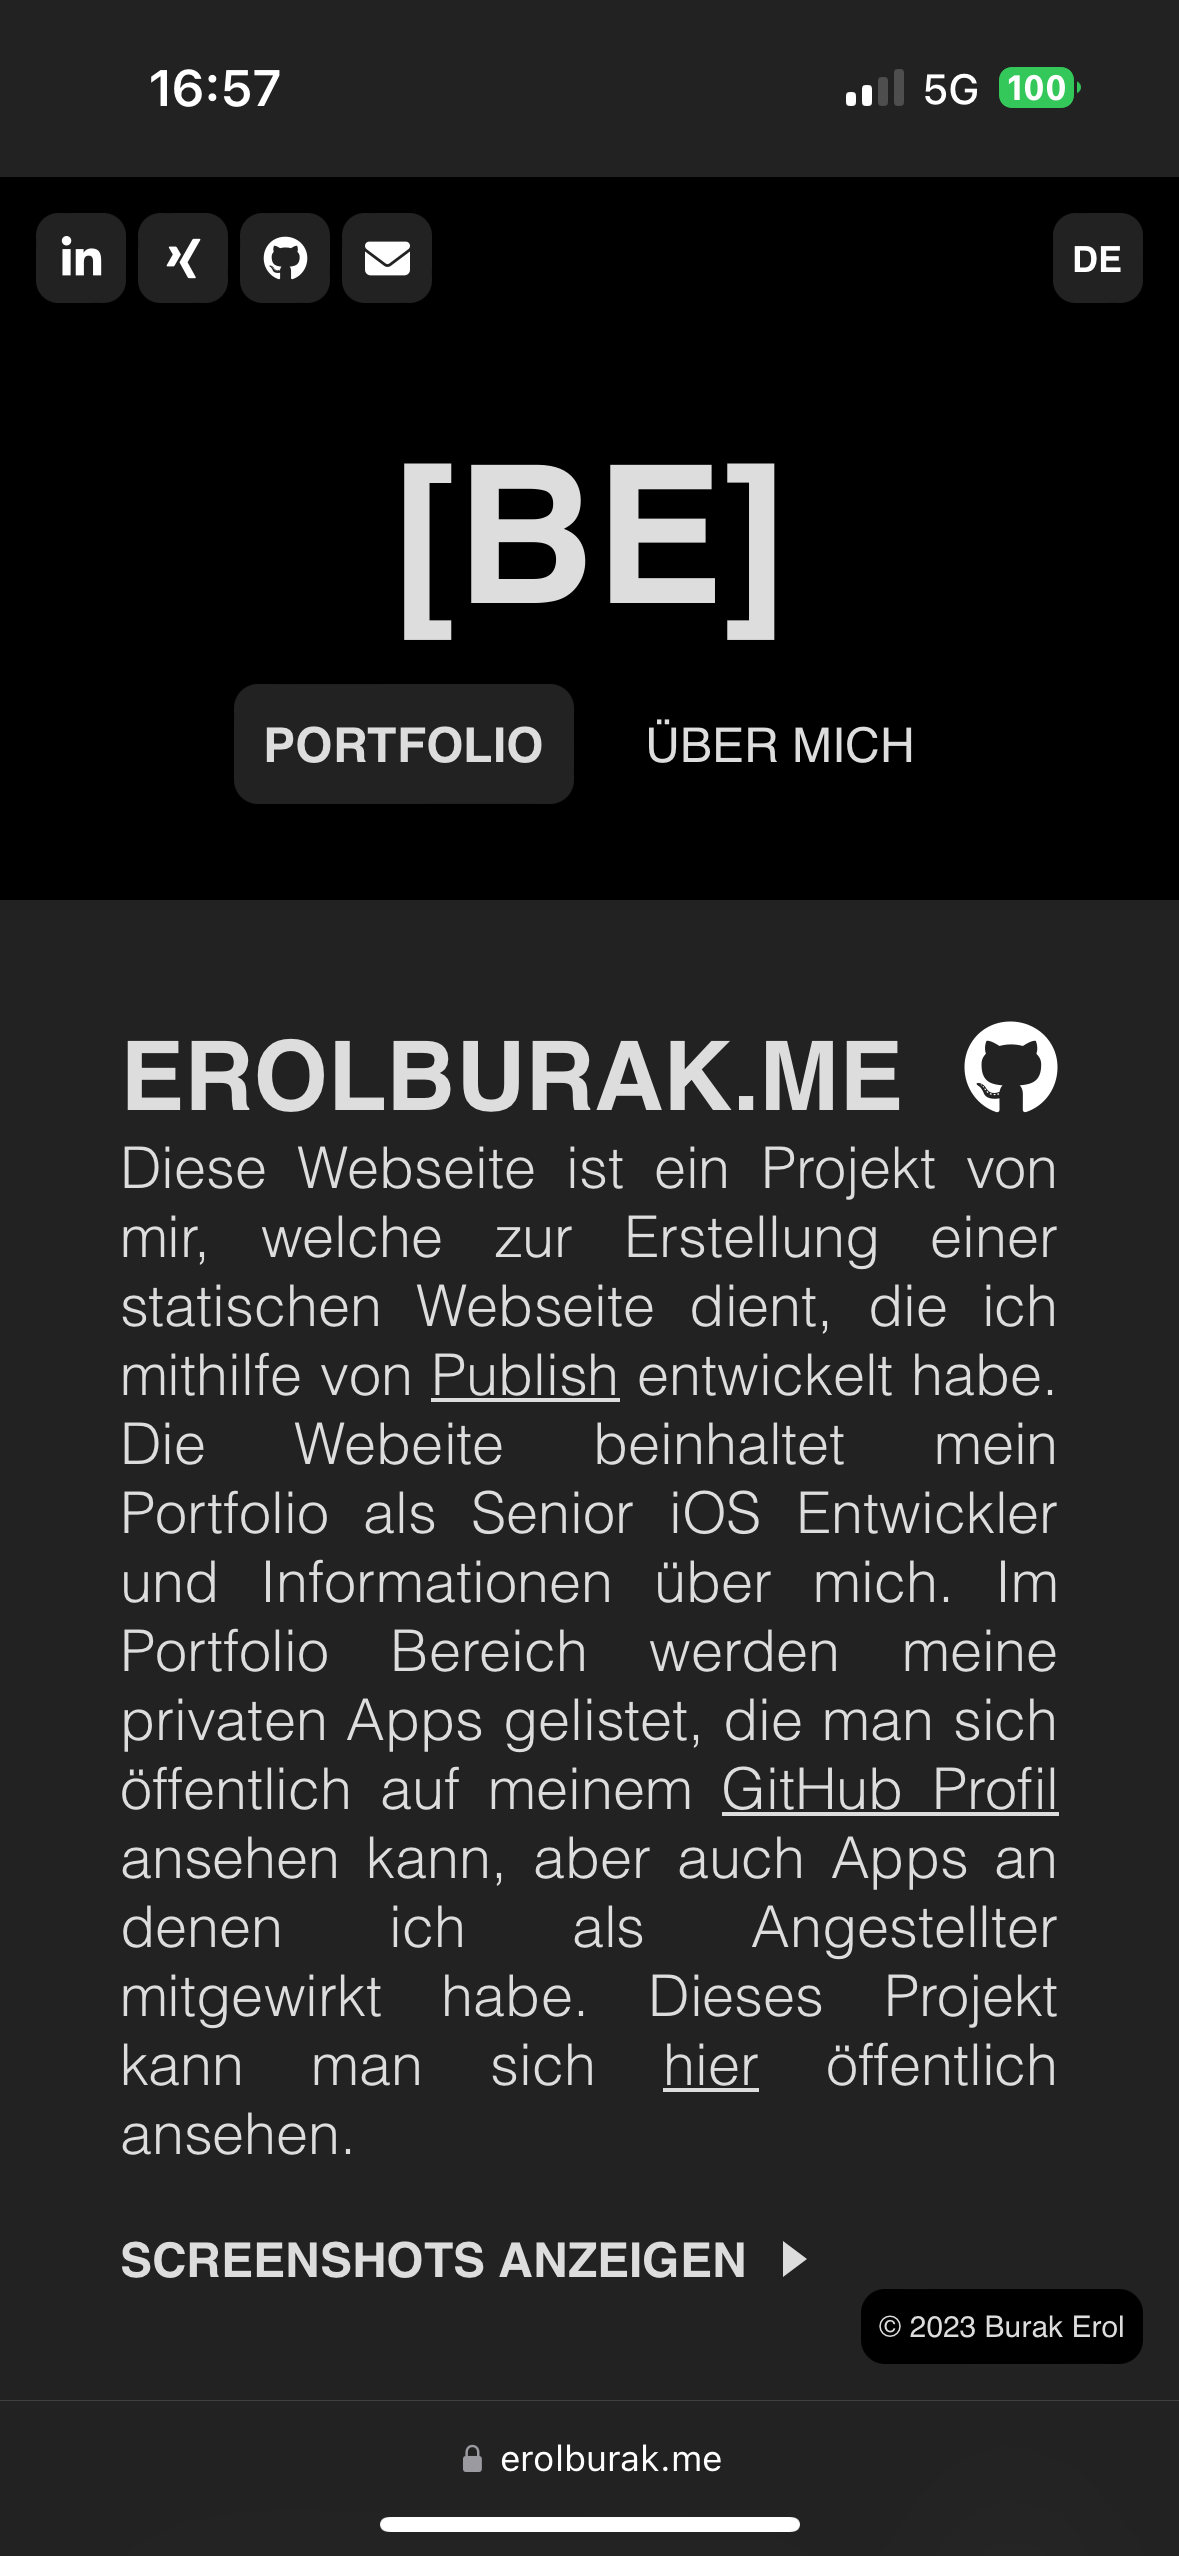
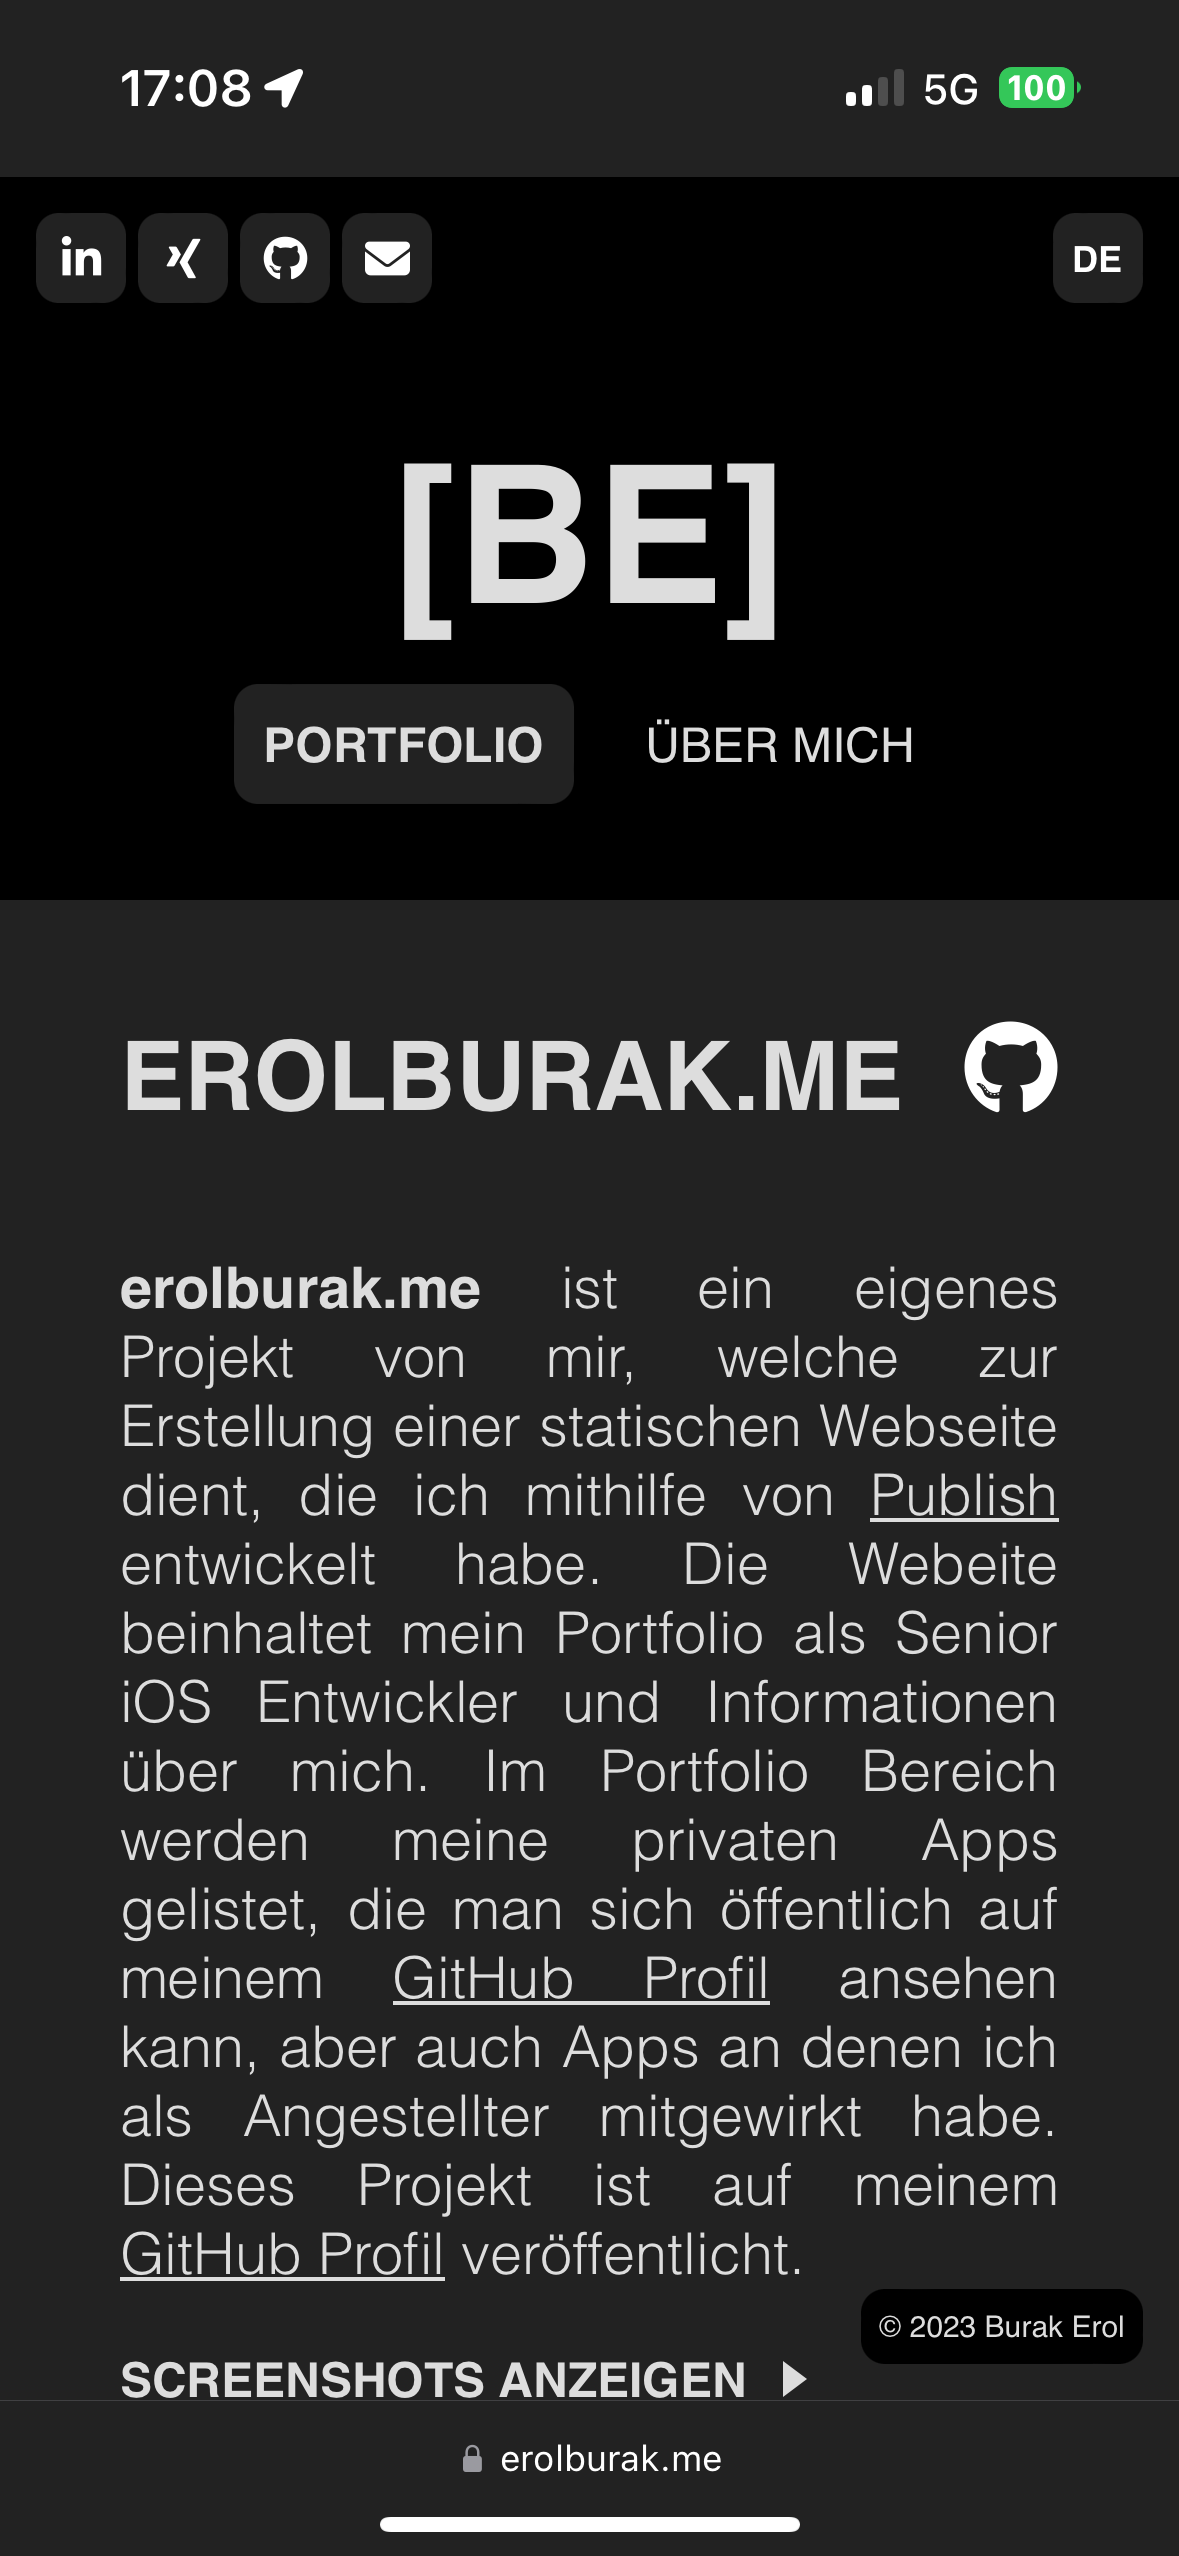
update (#34)

diff --git a/erolburak.me/Resources/README.md b/erolburak.me/Resources/README.md
@@ -4,7 +4,7 @@
 erolburak.me
 
 ## DESCRIPTION
-The erolburak.me project is a simple project to represent my [website](https://erolburak.me) as a Senior iOS Developer.
+**erolburak.me** is my own project, which is used to create a static website that I developed using [Publish](https://github.com/JohnSundell/Publish). The website contains my portfolio as a Senior iOS Developer and information about me. The portfolio area lists my private apps, which can be viewed publicly on my [GitHub Profile](https://github.com/erolburak), but also apps that I have worked on as an employee.
 
 ## SETUP
 - Build with: Xcode
@@ -13,5 +13,8 @@ The erolburak.me project is a simple project to represent my [website](https://e
 - Swift
 - [Publish](https://github.com/JohnSundell/Publish)
 
-## GIF :)
+## SCREENSHOTS
+Screenshots for this project are available on my [website](https://erolburak.me/en/portfolio).
+
+## HAVE FUN :)
 <img src="https://media3.giphy.com/media/v1.Y2lkPTc5MGI3NjExdDI3emQxaHl0bm5uZmNsaXRtNzNjcDRvN2s3OXV4NmFxMnR3d2didyZlcD12MV9pbnRlcm5hbF9naWZfYnlfaWQmY3Q9Zw/Ws6T5PN7wHv3cY8xy8/giphy.gif"/>
